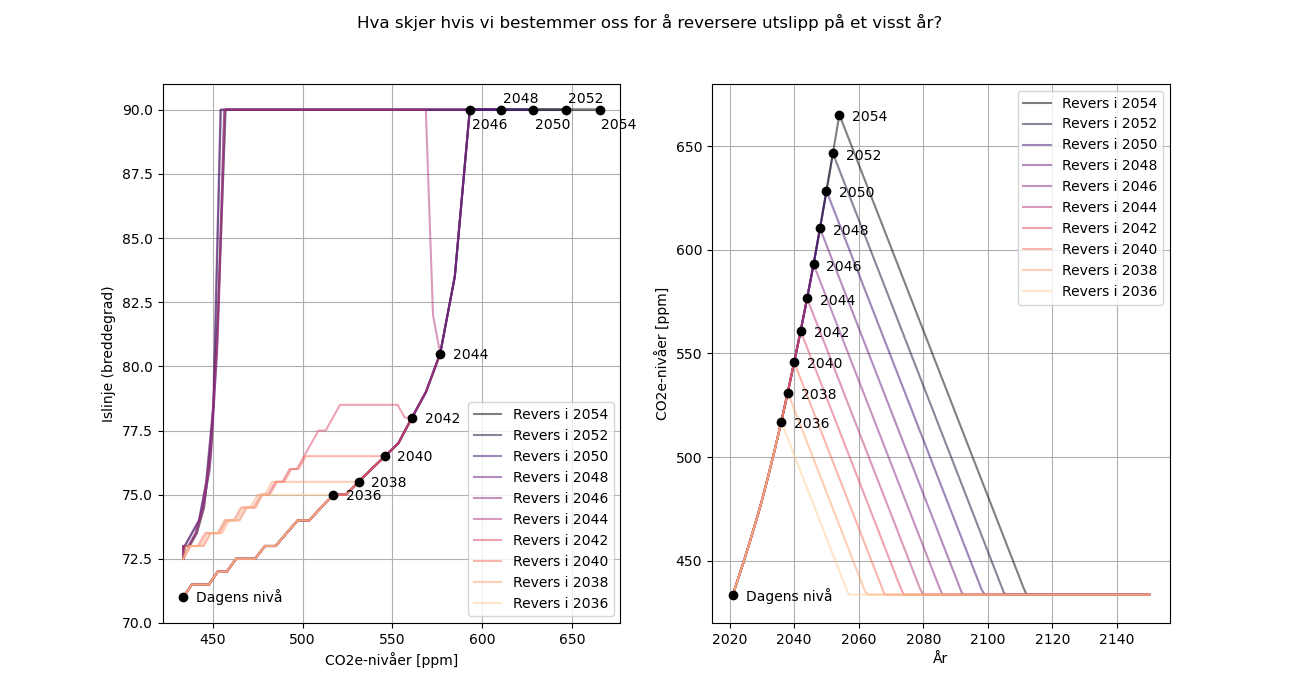
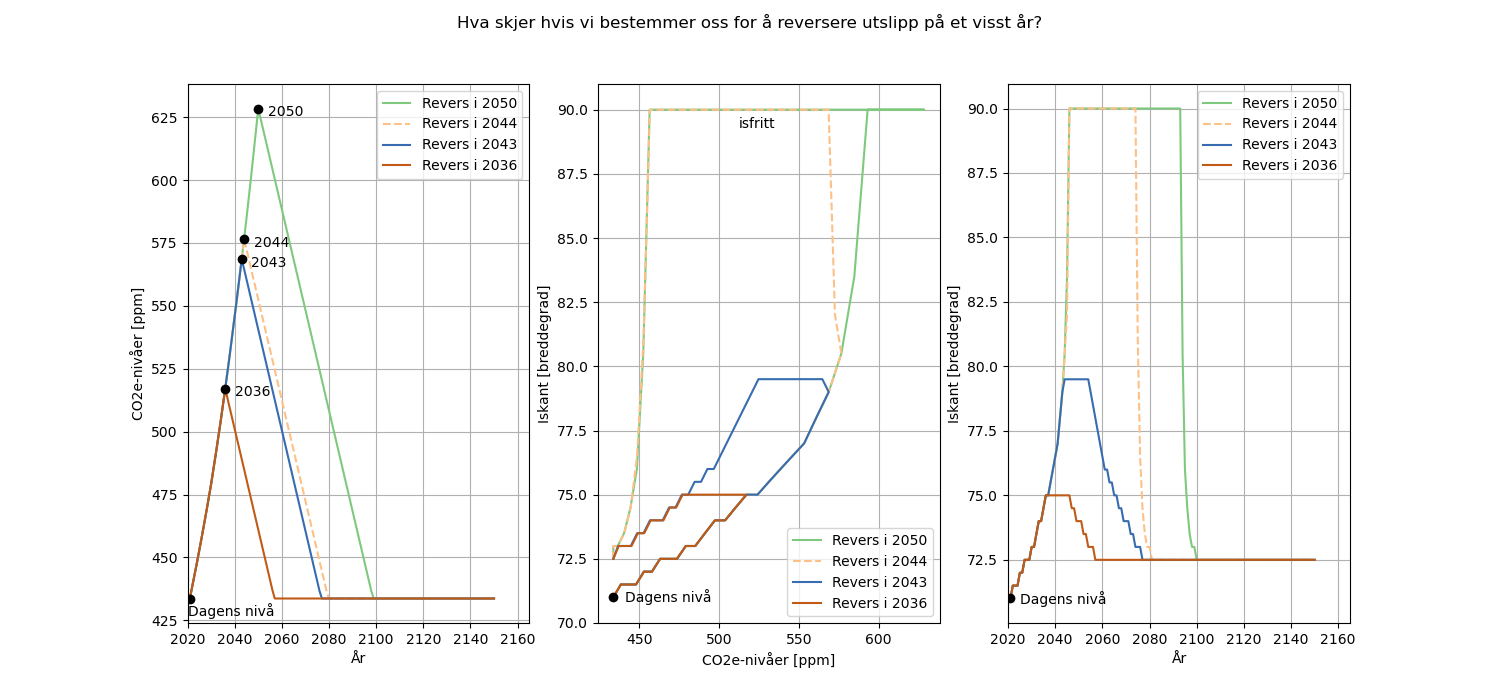
Better plots

Changed region(s): [[0.0615, 0.12, 0.9231, 0.96], [0.2769, 0.0, 0.7077, 0.06]]

diff --git a/plot_worst_scenario_stop_2040-2054.py b/plot_worst_scenario_stop_2040-2054.py
@@ -16,58 +16,65 @@ from climlib import *
 
 #name = 'predicts.npy'
 
-year_list = [2036, 2043, 2050]
+year_list = [2036, 2043, 2044, 2050]
 
-cmap = matplotlib.cm.get_cmap('magma')
+cmap = matplotlib.cm.get_cmap('Accent')
 alpha = 0.7
 fig, axs = plt.subplots(nrows = 1, ncols = 3, figsize=(15,7))
 plt.suptitle('Hva skjer hvis vi bestemmer oss for å stoppe utslipp helt på et visst år?')
 axs.flatten()
 for i, year_thresh in enumerate(reversed(year_list)):
-    name = 'predicts_vippepunkt_s_%s.npy'%year_thresh
-    
-    #load prediction models
-    predictions = np.load(name, allow_pickle = True)
-    
-    #plot icelats and co2e levels
-    predmodel = predictions[3]
-    axs[0].plot(predmodel.years, predmodel.co2e_array, color = cmap(i/len(year_list)), linestyle = '-', label = 'Stopp i %s'%year_thresh, alpha = alpha)
-    axs[1].plot(predmodel.co2e_array, predmodel.icelat, color = cmap(i/len(year_list)), linestyle = '-', label = 'Stopp i %s'%year_thresh, alpha = alpha)
-    axs[2].plot(predmodel.years, predmodel.icelat, color = cmap(i/len(year_list)), linestyle = '-', label = 'Stopp i %s'%year_thresh, alpha = alpha)
     if year_thresh == 2044:
-        axs[0].plot(predmodel.years, predmodel.co2e_array, color = cmap(i/len(year_list)), linestyle = '--', label = 'Stopp i %s'%year_thresh, alpha = alpha)
-        axs[1].plot(predmodel.co2e_array, predmodel.icelat, color = cmap(i/len(year_list)), linestyle = '--', label = 'Stopp i %s'%year_thresh, alpha = alpha)
-        axs[2].plot(predmodel.years, predmodel.icelat, color = cmap(i/len(year_list)), linestyle = '--', label = 'Stopp i %s'%year_thresh, alpha = alpha)
-    
-    max_co2_i = np.argmax(predmodel.co2e_array)
-    axs[1].plot(predmodel.co2e_array[max_co2_i], predmodel.icelat[max_co2_i], 'ko')
-    if year_thresh > 2044:
-        axs[1].annotate(text = int(year_thresh), xy=(predmodel.co2e_array[max_co2_i], predmodel.icelat[max_co2_i]), xytext=(predmodel.co2e_array[max_co2_i]+1, predmodel.icelat[max_co2_i]-0.5*((year_thresh%4) - 0.5)))
+        pass
     else:
-        axs[1].annotate(text = int(year_thresh), xy=(predmodel.co2e_array[max_co2_i], predmodel.icelat[max_co2_i]), xytext=(predmodel.co2e_array[max_co2_i]+7, predmodel.icelat[max_co2_i]-0.2))
-    axs[0].plot(predmodel.years[max_co2_i], predmodel.co2e_array[max_co2_i], 'ko')
-    axs[0].annotate(text = int(year_thresh), xy=(predmodel.years[max_co2_i], predmodel.co2e_array[max_co2_i]), xytext=(predmodel.years[max_co2_i]+2, predmodel.co2e_array[max_co2_i]-7))
-    axs[2].plot(predmodel.years[max_co2_i], predmodel.icelat[max_co2_i], 'ko')
-    axs[2].annotate(text = int(year_thresh), xy=(predmodel.years[max_co2_i], predmodel.icelat[max_co2_i]), xytext=(predmodel.years[max_co2_i]+4, predmodel.icelat[max_co2_i]-0.2))
+        name = 'predicts_vippepunkt_s_%s.npy'%year_thresh
+        
+        #load prediction models
+        predictions = np.load(name, allow_pickle = True)
+        
+        #plot icelats and co2e levels
+        predmodel = predictions[3]
+        axs[0].plot(predmodel.years, predmodel.co2e_array, color = cmap(i/len(year_list)), linestyle = '-', label = 'Stopp i %s'%year_thresh, alpha = alpha)
+        axs[1].plot(predmodel.co2e_array, predmodel.icelat, color = cmap(i/len(year_list)), linestyle = '-', label = 'Stopp i %s'%year_thresh, alpha = alpha)
+        axs[2].plot(predmodel.years, predmodel.icelat, color = cmap(i/len(year_list)), linestyle = '-', label = 'Stopp i %s'%year_thresh, alpha = alpha)
+        
+        
+        max_co2_i = np.argmax(predmodel.co2e_array)
+        if year_thresh == 2050:
+            axs[1].annotate(text = 'isfritt', xy=(predmodel.co2e_array[2047-2021], predmodel.icelat[2047-2021]), xytext=(predmodel.co2e_array[2047-2021]-20, predmodel.icelat[2047-2021]-0.7))
+        
+        
+        axs[0].plot(predmodel.years[max_co2_i], predmodel.co2e_array[max_co2_i], 'ko')
+        axs[0].annotate(text = int(year_thresh), xy=(predmodel.years[max_co2_i], predmodel.co2e_array[max_co2_i]), xytext=(predmodel.years[max_co2_i]+2, predmodel.co2e_array[max_co2_i]-7))
+        
+        axs[0].scatter(predmodel.years[-1], predmodel.co2e_array[-1], color = cmap(i/len(year_list)), linestyle = 'dotted')
+        axs[1].scatter(predmodel.co2e_array[-1], predmodel.icelat[-1], color = cmap(i/len(year_list)), linestyle = 'dotted')
+        axs[2].scatter(predmodel.years[-1], predmodel.icelat[-1], color = cmap(i/len(year_list)), linestyle = 'dotted')
+        #axs[1].annotate(text = int(year_thresh), xy=(predmodel.co2e_array[max_co2_i], predmodel.icelat[max_co2_i]), xytext=(predmodel.co2e_array[max_co2_i]+7, predmodel.icelat[max_co2_i]-0.2))
+        '''
+        axs[2].plot(predmodel.years[max_co2_i], predmodel.icelat[max_co2_i], 'ko')
+        axs[2].annotate(text = int(year_thresh), xy=(predmodel.years[max_co2_i], predmodel.icelat[max_co2_i]), xytext=(predmodel.years[max_co2_i]+4, predmodel.icelat[max_co2_i]-0.2))
+        '''
     
 #axs[1].set_title('Cut year %s'%year_thresh)
 axs[0].plot(predmodel.years[0], predmodel.co2e_array[0], 'ko')
 axs[1].plot(predmodel.co2e_array[0], predmodel.icelat[0], 'ko')
 axs[2].plot(predmodel.years[0], predmodel.icelat[0], 'ko')
-
 axs[0].annotate(text = 'Dagens nivå', xy=(predmodel.years[0], predmodel.co2e_array[0]), xytext=(predmodel.years[0]+4, predmodel.co2e_array[0]-3))
 axs[1].annotate(text = 'Dagens nivå', xy=(predmodel.co2e_array[0], predmodel.icelat[0]), xytext=(predmodel.co2e_array[0]+7, predmodel.icelat[0]-0.2))
 axs[2].annotate(text = 'Dagens nivå', xy=(predmodel.years[0], predmodel.icelat[0]), xytext=(predmodel.years[0]+4, predmodel.icelat[0]-0.2))
+
+axs[0].set_xlim(2020,2165)
+axs[2].set_xlim(2020,2165)
 axs[1].set_ylim(70,91)
-#axs[0].set_ylim(420,630)
 axs[0].set_xlabel('År')
 axs[0].set_ylabel('CO2e-nivåer [ppm]')
 axs[1].set_xlabel('CO2e-nivåer [ppm]')
-axs[1].set_ylabel('Islinje (breddegrad)')
+axs[1].set_ylabel('Iskant [breddegrad]')
 axs[2].set_xlabel('År')
-axs[2].set_ylabel('Islinje (breddegrad)')
+axs[2].set_ylabel('Iskant [breddegrad]')
 axs[0].legend()
-axs[1].legend()
+axs[1].legend(loc='lower right')
 axs[2].legend()
 axs[0].grid()
 axs[1].grid()

diff --git a/plot_worst_scenario_reverse_2040-2054.py b/plot_worst_scenario_reverse_2040-2054.py
@@ -17,8 +17,8 @@ from climlib import *
 
 year_list = [2036, 2043, 2044, 2050]
 
-cmap = matplotlib.cm.get_cmap('Dark2')
-alpha = 0.7
+cmap = matplotlib.cm.get_cmap('Accent')
+alpha = 1
 fig, axs = plt.subplots(nrows = 1, ncols = 3, figsize=(15,7))
 plt.suptitle('Hva skjer hvis vi bestemmer oss for å reversere utslipp på et visst år?')
 axs.flatten()
@@ -30,18 +30,24 @@ for i, year_thresh in enumerate(reversed(year_list)):
     
     #plot icelats and co2e levels
     predmodel = predictions[3]
-    axs[0].plot(predmodel.years, predmodel.co2e_array, color = cmap(i/len(year_list)), linestyle = '-', label = 'Revers i %s'%year_thresh, alpha = alpha)
-    axs[1].plot(predmodel.co2e_array, predmodel.icelat, color = cmap(i/len(year_list)), linestyle = '-', label = 'Revers i %s'%year_thresh, alpha = alpha)
-    axs[2].plot(predmodel.years, predmodel.icelat, color = cmap(i/len(year_list)), linestyle = '-', label = 'Revers i %s'%year_thresh, alpha = alpha)
+    
     if year_thresh == 2044:
         axs[0].plot(predmodel.years, predmodel.co2e_array, color = cmap(i/len(year_list)), linestyle = '--', label = 'Revers i %s'%year_thresh, alpha = alpha)
         axs[1].plot(predmodel.co2e_array, predmodel.icelat, color = cmap(i/len(year_list)), linestyle = '--', label = 'Revers i %s'%year_thresh, alpha = alpha)
         axs[2].plot(predmodel.years, predmodel.icelat, color = cmap(i/len(year_list)), linestyle = '--', label = 'Revers i %s'%year_thresh, alpha = alpha)
+        
+        #axs[0].plot(predmodel.years[2050-2021], predmodel.co2e_array[2050-2021], 'ko')
+        axs[1].annotate(text = 'isfritt', xy=(predmodel.co2e_array[2060-2021], predmodel.icelat[2060-2021]), xytext=(predmodel.co2e_array[2060-2021], predmodel.icelat[2060-2021]-0.7))
+    else:
+        axs[0].plot(predmodel.years, predmodel.co2e_array, color = cmap(i/len(year_list)), linestyle = '-', label = 'Revers i %s'%year_thresh, alpha = alpha)
+        axs[1].plot(predmodel.co2e_array, predmodel.icelat, color = cmap(i/len(year_list)), linestyle = '-', label = 'Revers i %s'%year_thresh, alpha = alpha)
+        axs[2].plot(predmodel.years, predmodel.icelat, color = cmap(i/len(year_list)), linestyle = '-', label = 'Revers i %s'%year_thresh, alpha = alpha)
     
     
     max_co2_i = np.argmax(predmodel.co2e_array)
     axs[0].plot(predmodel.years[max_co2_i], predmodel.co2e_array[max_co2_i], 'ko')
     axs[0].annotate(text = int(year_thresh), xy=(predmodel.years[max_co2_i], predmodel.co2e_array[max_co2_i]), xytext=(predmodel.years[max_co2_i]+4, predmodel.co2e_array[max_co2_i]-3))
+    '''
     axs[1].plot(predmodel.co2e_array[max_co2_i], predmodel.icelat[max_co2_i], 'ko')
     if year_thresh > 2044:
         axs[1].annotate(text = int(year_thresh), xy=(predmodel.co2e_array[max_co2_i], predmodel.icelat[max_co2_i]), xytext=(predmodel.co2e_array[max_co2_i]+1, predmodel.icelat[max_co2_i]-0.5*((year_thresh%4) - 0.5)))
@@ -49,24 +55,25 @@ for i, year_thresh in enumerate(reversed(year_list)):
         axs[1].annotate(text = int(year_thresh), xy=(predmodel.co2e_array[max_co2_i], predmodel.icelat[max_co2_i]), xytext=(predmodel.co2e_array[max_co2_i]+7, predmodel.icelat[max_co2_i]-0.2))
     axs[2].plot(predmodel.years[max_co2_i], predmodel.icelat[max_co2_i], 'ko')
     axs[2].annotate(text = int(year_thresh), xy=(predmodel.years[max_co2_i], predmodel.icelat[max_co2_i]), xytext=(predmodel.years[max_co2_i]+4, predmodel.icelat[max_co2_i]-0.2))
-    
-    
-#axs[0].set_title('Cut year %s'%year_thresh)
+    '''
+
 axs[0].plot(predmodel.years[0], predmodel.co2e_array[0], 'ko')
 axs[1].plot(predmodel.co2e_array[0], predmodel.icelat[0], 'ko')
 axs[2].plot(predmodel.years[0], predmodel.icelat[0], 'ko')
-
-axs[0].annotate(text = 'Dagens nivå', xy=(predmodel.years[0], predmodel.co2e_array[0]), xytext=(predmodel.years[0]+4, predmodel.co2e_array[0]-3))
+axs[0].annotate(text = 'Dagens nivå', xy=(predmodel.years[0], predmodel.co2e_array[0]), xytext=(predmodel.years[0]-1, predmodel.co2e_array[0]-7))
 axs[1].annotate(text = 'Dagens nivå', xy=(predmodel.co2e_array[0], predmodel.icelat[0]), xytext=(predmodel.co2e_array[0]+7, predmodel.icelat[0]-0.2))
 axs[2].annotate(text = 'Dagens nivå', xy=(predmodel.years[0], predmodel.icelat[0]), xytext=(predmodel.years[0]+4, predmodel.icelat[0]-0.2))
+
+axs[0].set_xlim(2020,2165)
+axs[2].set_xlim(2020,2165)
 axs[1].set_ylim(70,91)
 #axs[0].set_ylim(420,630)
 axs[0].set_xlabel('År')
 axs[0].set_ylabel('CO2e-nivåer [ppm]')
 axs[1].set_xlabel('CO2e-nivåer [ppm]')
-axs[1].set_ylabel('Islinje (breddegrad)')
+axs[1].set_ylabel('Iskant [breddegrad]')
 axs[2].set_xlabel('År')
-axs[2].set_ylabel('Islinje (breddegrad)')
+axs[2].set_ylabel('Iskant [breddegrad]')
 axs[0].legend()
 axs[1].legend()
 axs[2].legend()
